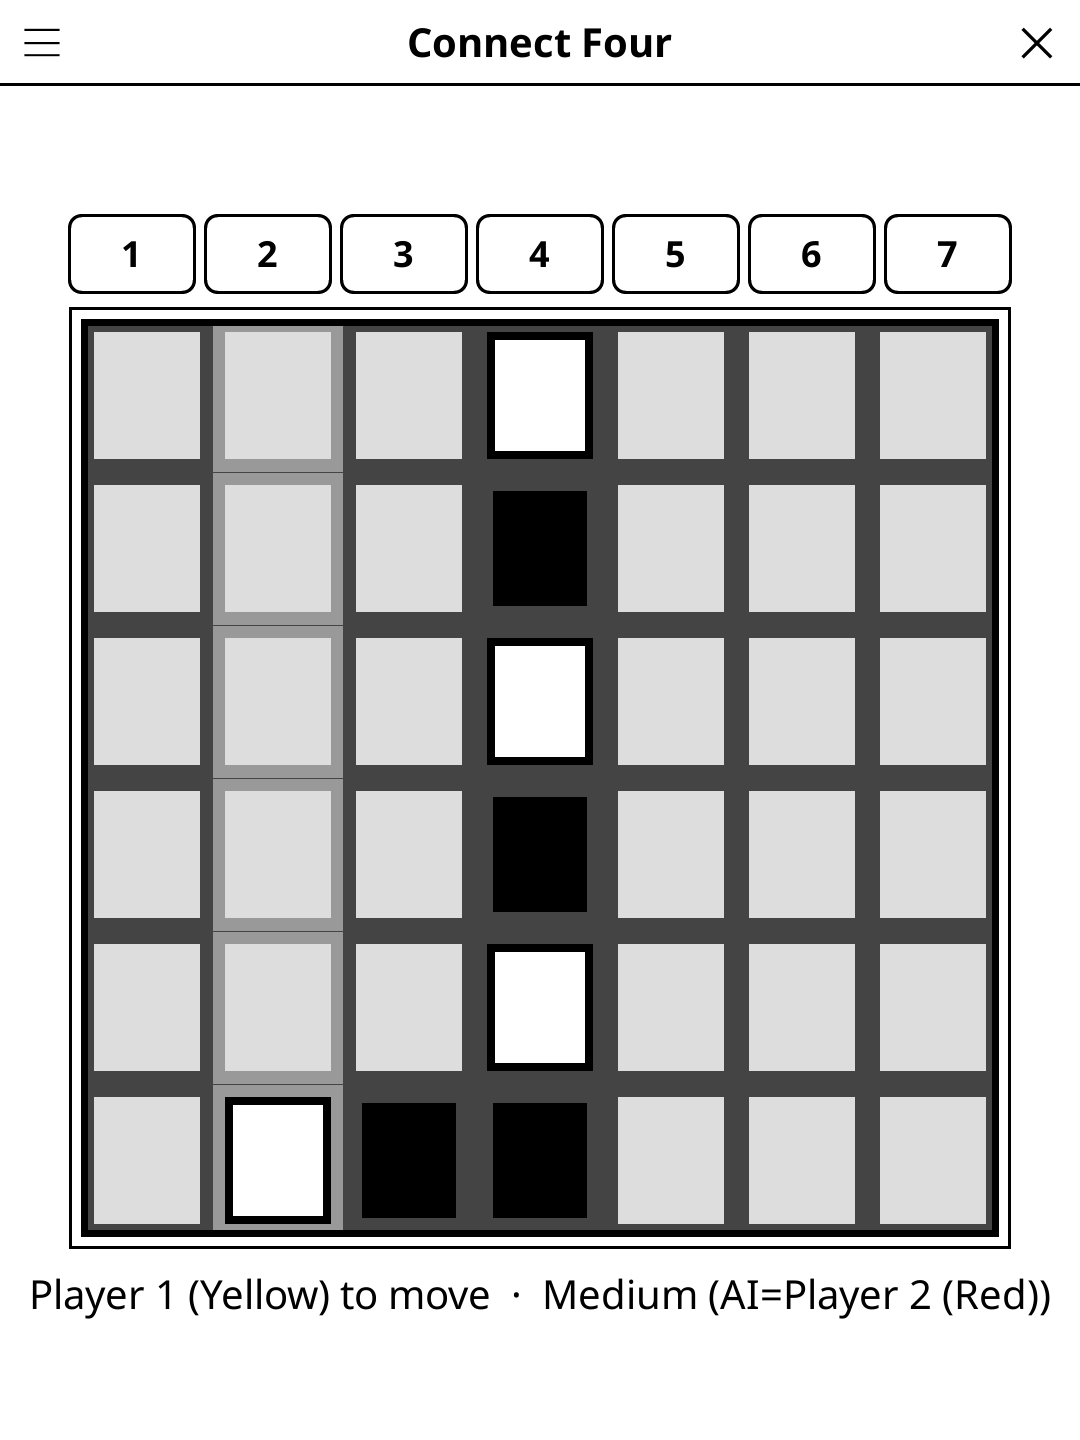
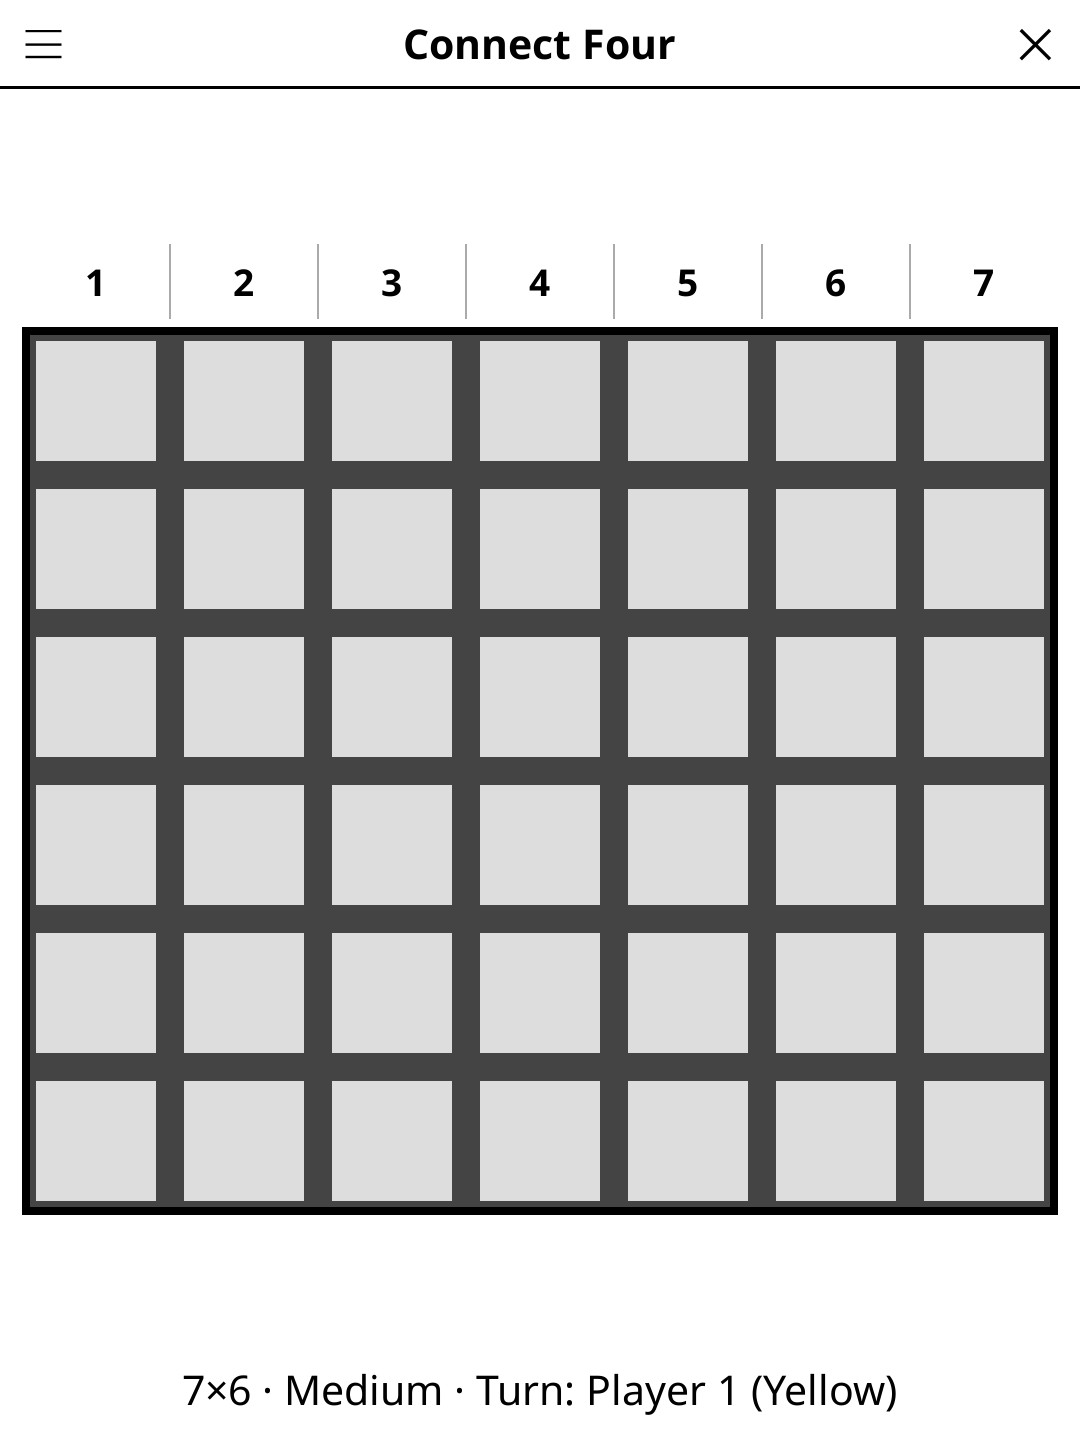
release: 1.2.0 -- redesigned screen, harmonised menu, New game at round end
Screen redesign (full-width action bar, unified pad, status line, larger
board), harmonised title-bar menu, and a "New game" button once the round
is over. See CHANGELOG.md.

diff --git a/CHANGELOG.md b/CHANGELOG.md
@@ -2,6 +2,20 @@
 
 All notable changes to this project will be documented in this file.
 
+## [1.2.0] - 2026-10-30
+
+### Changed
+- Redesigned play screen: the 7×6 board fills the room the controls leave,
+  with square cells (the six rows used to be stretched to fill a square
+  board), and the column keys 1-7 form an even bar above it, each key over its
+  column.
+- Once the game is won or drawn, "New game" appears in place of the column
+  keys.
+- Title-bar menu in the shared order: New game (was "New"), "Difficulty:
+  Medium", "Players: 1" (was "1 player"), Rules.
+- The status line reads "7×6 · Medium · Turn: Player 1 (Yellow)" (the "(AI=…)"
+  part is gone) and wraps in landscape.
+
 ## [1.1.17] - 2026-10-02
 
 ### Fixed

diff --git a/README.md b/README.md
@@ -30,8 +30,7 @@ Two players alternate dropping pieces into a 7×6 grid. Pieces fall to the lowes
 | Action | How |
 |--------|-----|
 | Drop a piece | Tap a column |
-| Undo last move | Tap **Undo** |
-| New game | Tap **New** |
+| New game | Tap **New game** |
 | Show rules | Tap **Rules** |
 
 ## License
